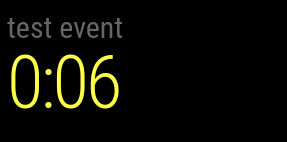
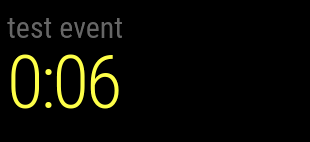
Add screenshot for the 'In progress' screen. Color 'In progress' string yellow when the end of the event is 10 min or less away, and red when it is 5 minutes or less.
No issue #

Changed region(s): [[0.0279, 0.3662, 0.4181, 0.7887], [0.0279, 0.1127, 0.446, 0.2817]]

diff --git a/MMM-NextEvent.js b/MMM-NextEvent.js
@@ -29,7 +29,13 @@ Module.register("MMM-NextEvent",{
 		events.sort((a, b) => a.startDate.localeCompare(b.startDate))
 		if ((typeof events[0] !== 'undefined') && (now >= events[0].startDate) && (now <= events[0].endDate)) {
 			this.config.event = events[0].title;
-			this.config.date = "1000-10-10";
+			if ((now >= events[0].startDate) && (now <= events[0].endDate-10*60)) {
+				this.config.date = "1000-10-10";
+			} else if ((now >= events[0].startDate) && (now <= events[0].endDate-5*60)) {
+				this.config.date = "1000-10-11";
+			} else if ((now >= events[0].startDate) && (now <= events[0].endDate)) {
+				this.config.date = "1000-10-12";
+			}
 		} else if (typeof events[0] !== 'undefined') {
 			this.config.event = events[0].title;
 			this.config.date = events[0].startDateJ;
@@ -102,6 +108,12 @@ Module.register("MMM-NextEvent",{
 		} else if (this.config.date === "1000-10-10") {
 			timeWrapper.innerHTML = "In progress";
 			timeWrapper.className = "time bright xlarge light";
+		} else if (this.config.date === "1000-10-11") {
+			timeWrapper.innerHTML = "In progress";
+			timeWrapper.className = "time xlarge light yellow";
+		} else if (this.config.date === "1000-10-12") {
+			timeWrapper.innerHTML = "In progress";
+			timeWrapper.className = "time xlarge light red";
 		} else if (this.config.date !== "3000-01-01") {
 			timeWrapper.innerHTML = days + hrs + mins + secs;
 		}

diff --git a/README.md b/README.md
@@ -5,6 +5,7 @@
 ![Screenshot](https://github.com/cure/MMM-NextEvent/raw/main/screenshots/screenshot2.png)
 ![Screenshot](https://github.com/cure/MMM-NextEvent/raw/main/screenshots/screenshot3.png)
 ![Screenshot](https://github.com/cure/MMM-NextEvent/raw/main/screenshots/screenshot4.png)
+![Screenshot](https://github.com/cure/MMM-NextEvent/raw/main/screenshots/screenshot5.png)
 
 ## Description
 
